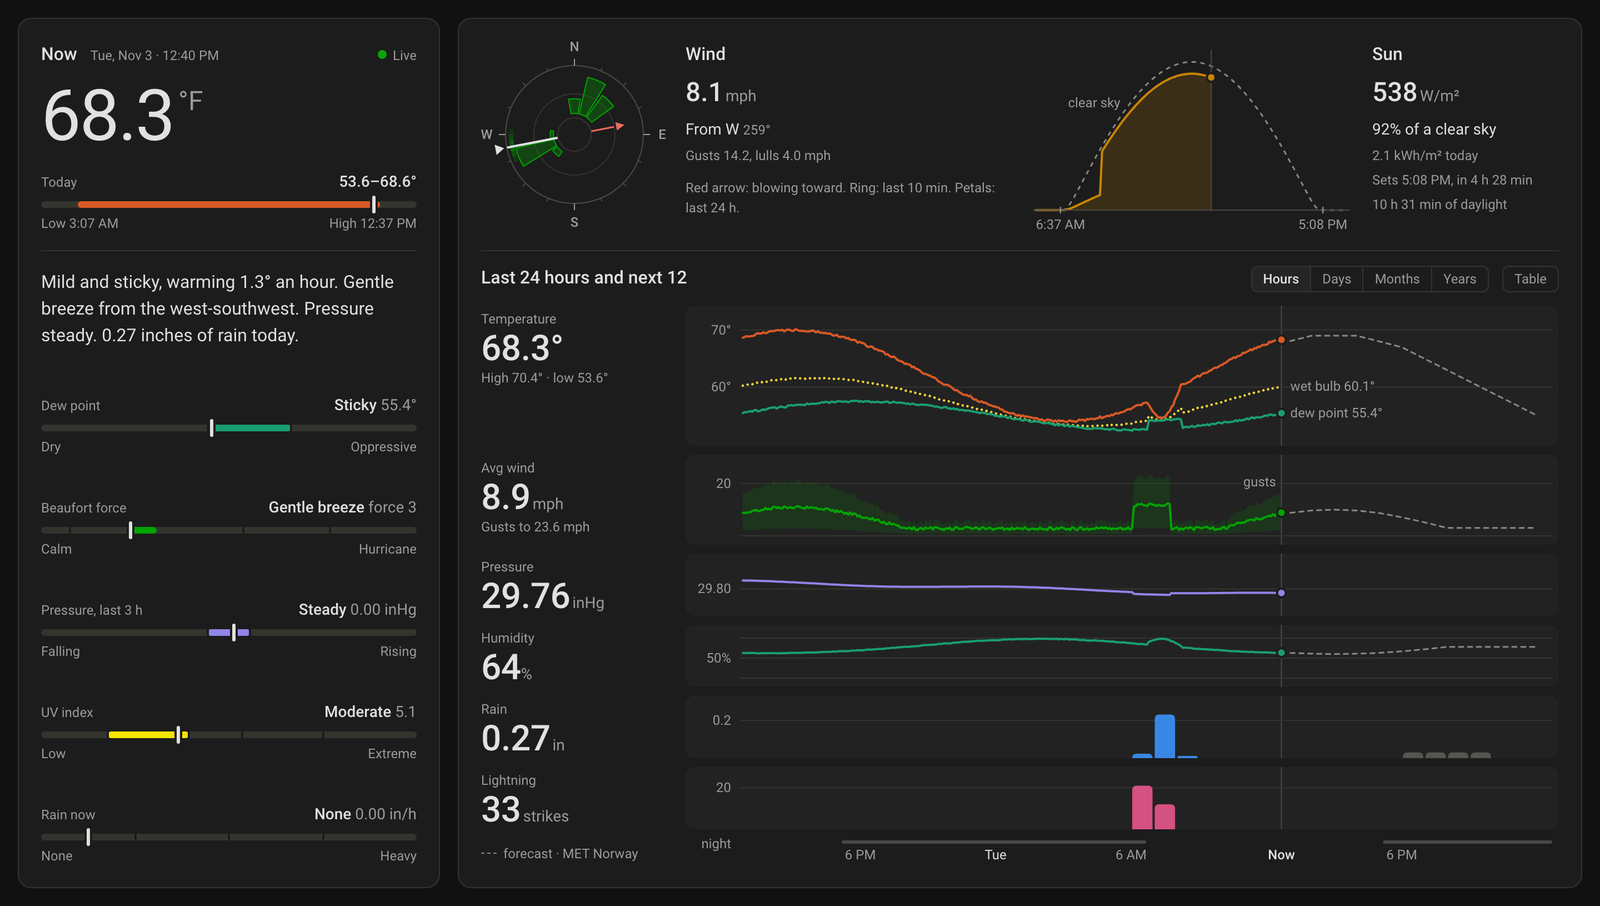
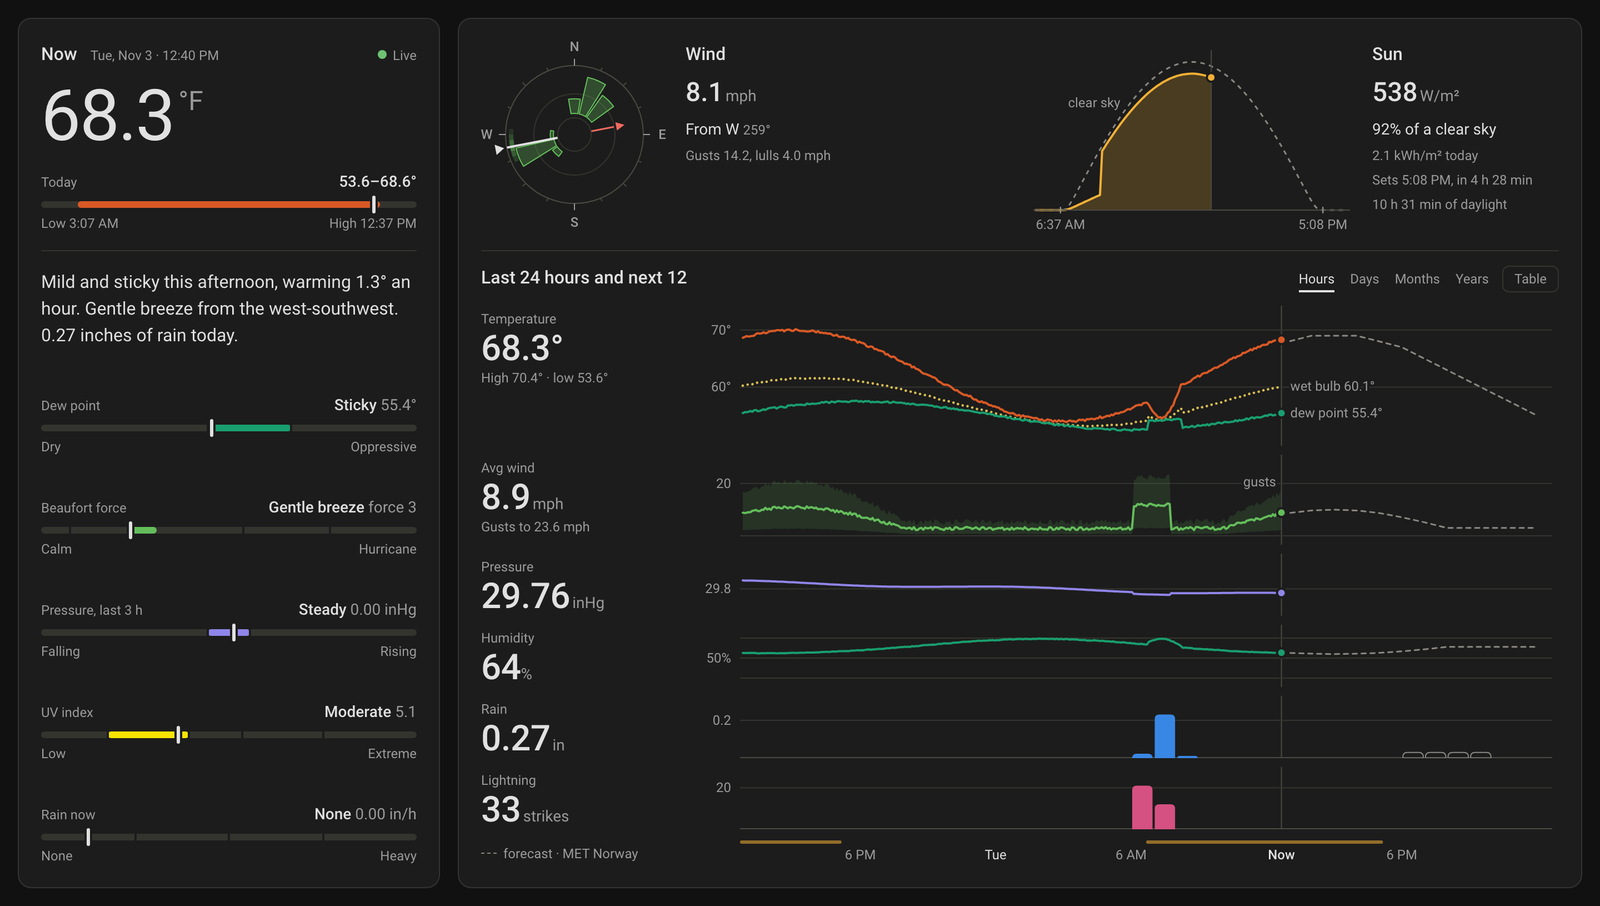
Tempest Station Card 1.4.0

diff --git a/tempest-station-card.js b/tempest-station-card.js
@@ -26,6 +26,10 @@
  * hero figure; 48 on a short screen), 32 (headlines), 24, 16, 14 and 12 px.
  * Figures are tabular.
  *
+ * The charts are drawn straight on the card: gridlines and, under bars, a
+ * floor, and nothing else. A forecast is dashed or outlined where a
+ * measurement is solid. Daylight is a ribbon along the time axis.
+ *
  * Motion: the needle glides between samples; a change of range, or of a
  * figure, crossfades over 220 ms; a new lightning strike lights its chart
  * once; nothing moves the layout. All of it is off under
@@ -42,7 +46,7 @@
 (() => {
   "use strict";
   const TAG = "tempest-station-card";
-  const VERSION = "1.3.1";
+  const VERSION = "1.4.0";
   if (customElements.get(TAG)) return;
 
   /* ---------- units ---------- */
@@ -367,9 +371,9 @@
   display: block;
   --wx-temp: #eb6834; --wx-dew: #1baf7a; --wx-rain: #2a78d6; --wx-sun: #eda100;
   --wx-temp-2: #c44513; --wx-downwind: #d03b3b; --wx-wetbulb: #a68600;
-  --wx-wind: #008300; --wx-pres: #6250d6; --wx-bolt: #e87ba4; --wx-muted: #898781;
-  --wx-grid: #e1e0d9; --wx-axis: #c3c2b7; --wx-wash: rgba(11,11,11,0.035);
-  --wx-good: #0ca30c; --wx-warn: #fab219; --wx-critical: #d03b3b;
+  --wx-wind: #2c8724; --wx-pres: #6250d6; --wx-bolt: #e87ba4; --wx-muted: #898781;
+  --wx-grid: #e1e0d9; --wx-axis: #c3c2b7; --wx-wash: rgba(11,11,11,0.035); --wx-sun-fill: 0.18;
+  --wx-good: #3a9742; --wx-warn: #fab219; --wx-critical: #d03b3b;
   --wx-surface: var(--ha-card-background, var(--card-background-color, #fff));
   --wx-ink: var(--primary-text-color, #0b0b0b);
   --wx-ink2: var(--secondary-text-color, #52514e);
@@ -390,9 +394,9 @@
   -webkit-font-smoothing: antialiased;
 }
 :host(.dark) {
-  --wx-temp: #d95926; --wx-dew: #199e70; --wx-rain: #3987e5; --wx-sun: #c98500;
-  --wx-pres: #9085e9; --wx-bolt: #d55181;
-  --wx-temp-2: #e2825c; --wx-downwind: #f06a5f; --wx-wind: #00a400; --wx-wetbulb: #f2d23b;
+  --wx-temp: #d95926; --wx-dew: #199e70; --wx-rain: #3987e5; --wx-sun: #f2b036; --wx-sun-fill: 0.22;
+  --wx-pres: #9085e9; --wx-bolt: #d55181; --wx-good: #6ec272;
+  --wx-temp-2: #e2825c; --wx-downwind: #f06a5f; --wx-wind: #64bd5b; --wx-wetbulb: #d8bd51;
   --wx-grid: #34342f; --wx-axis: #4a4a43; --wx-wash: rgba(255,255,255,0.045);
 }
 * { box-sizing: border-box; }
@@ -511,6 +515,7 @@ h2 { font-size: var(--wx-fs-title); line-height: 24px; font-weight: var(--wx-w-m
 .read { font-size: var(--wx-fs-read); line-height: 28px; white-space: nowrap; font-weight: var(--wx-w-medium); font-variant-numeric: tabular-nums; }
 .read .unit { font-weight: var(--wx-w-regular); }
 .cap { margin-top: 6px; line-height: 18px; }
+.cap:empty { display: none; }
 .sunfig svg { display: block; overflow: visible; }
 .mg-head { margin-bottom: 12px; }
 .head-r { display: flex; flex-wrap: wrap; align-items: center; gap: 8px 12px; margin-left: auto; }
@@ -518,15 +523,18 @@ h2 { font-size: var(--wx-fs-title); line-height: 24px; font-weight: var(--wx-w-m
 .narrow [data-csv] { display: none; }
 .mg-body { position: relative; }
 .wide .mg-body { flex: 1 1 auto; min-height: 0; }
-.seg { display: inline-flex; border: 1px solid var(--wx-grid); border-radius: 6px; overflow: hidden; }
+/* The ranges are tabs, words with a rule under the one in force; Table and CSV are actions and keep their buttons.
+   Every tab keeps one weight, so a change of range never shifts its neighbours. */
+.seg { display: inline-flex; gap: 14px; }
 .seg button, .tbtn { font: inherit; font-size: var(--wx-fs-small); line-height: 16px; color: var(--wx-ink2); background: none; border: 0; padding: 3px 10px; cursor: pointer; }
 .tbtn { border: 1px solid var(--wx-grid); border-radius: 6px; }
-.seg button + button { border-left: 1px solid var(--wx-grid); }
-.seg button[aria-pressed="true"] { background: var(--wx-wash); color: var(--wx-ink); font-weight: var(--wx-w-medium); }
+.seg button { padding: 4px 0 2px; border-bottom: 2px solid transparent; }
+.seg button[aria-pressed="true"] { color: var(--wx-ink); border-bottom-color: var(--wx-ink); }
 .seg button:hover, .tbtn:hover { color: var(--wx-ink); }
 .seg button:focus-visible, .tbtn:focus-visible { outline: 2px solid var(--primary-color, #2a78d6); outline-offset: 2px; }
 
-/* Meteogram: one time axis for every measure. Each chart sits in its own well, led by a headline tile. */
+/* Meteogram: one time axis for every measure. Each chart is drawn straight on the card, led by a headline tile:
+   its gridlines and its floor are all the frame it has. */
 .mg { display: grid; grid-template-columns: var(--wx-tile, 184px) minmax(0, 1fr); position: relative; outline: none; }
 .mg:focus-visible { outline: 2px solid var(--primary-color, #2a78d6); outline-offset: 4px; border-radius: 4px; }
 /* A finger reads the chart as a mouse does: a drag along it scrubs; a drag up or down still scrolls the page. */
@@ -542,7 +550,7 @@ h2 { font-size: var(--wx-fs-title); line-height: 24px; font-weight: var(--wx-w-m
 .tile .k { display: inline-block; width: 12px; height: 0; border-top: 2px solid; vertical-align: middle; margin: -2px 6px 0 0; }
 .tile .k.dash { border-top-style: dashed; }
 .tile .k.dot { border-top-style: dotted; border-top-width: 2.5px; }
-.mg-p { min-width: 0; position: relative; border-radius: 8px; background: var(--wx-well); overflow: hidden; }
+.mg-p { min-width: 0; position: relative; overflow: hidden; }
 @keyframes wx-arrive { from { opacity: 0; } to { opacity: 1; } }
 .arrive .mg-p svg, .arrive .sunfig svg, .arrive .dial svg, .arrive .tile .tv { animation: wx-arrive 360ms ease-out both; }
 @media (prefers-reduced-motion: reduce) { .arrive .mg-p svg, .arrive .sunfig svg, .arrive .dial svg, .arrive .tile .tv { animation: none; } }
@@ -556,15 +564,15 @@ h2 { font-size: var(--wx-fs-title); line-height: 24px; font-weight: var(--wx-w-m
 .xf::after { content: attr(data-old); position: absolute; left: 0; top: 0; color: var(--wx-ink); white-space: nowrap; pointer-events: none; animation: wx-fade 220ms ease-out both; }
 @keyframes wx-ink { from { color: transparent; } }
 /* A new strike: the lightning strip lights faintly, as a distant flash would, and settles over a second and a half. */
-.mg-p.flash { animation: wx-flash 1500ms ease-out both; }
-@keyframes wx-flash { from { background: color-mix(in srgb, var(--wx-bolt) 22%, var(--wx-well)); } 30% { background: color-mix(in srgb, var(--wx-bolt) 14%, var(--wx-well)); } }
+.mg-p.flash { border-radius: 8px; animation: wx-flash 1500ms ease-out both; }
+@keyframes wx-flash { from { background: color-mix(in srgb, var(--wx-bolt) 22%, var(--wx-surface)); } 30% { background: color-mix(in srgb, var(--wx-bolt) 14%, var(--wx-surface)); } to { background: transparent; } }
 @media (prefers-reduced-motion: reduce) { .mg-ghost { display: none; } .swap > .mg, .swap > .table-wrap, .xf, .mg-p.flash { animation: none; } .xf::after { content: none; } }
 .mg-p svg, .mg-axis svg { display: block; overflow: visible; }
 .mg-axis { grid-column: 2; }
 .mg-key { grid-column: 1; padding: 6px 16px 0 0; white-space: nowrap; overflow: hidden; text-overflow: ellipsis; }
 .mg-key i { display: inline-block; vertical-align: middle; margin: -2px 6px 0 0; }
 .mg-key .kd { width: 14px; border-top: 1.5px dashed var(--wx-muted); }
-.mg-key .kb { width: 8px; height: 8px; border-radius: 2px; background: var(--wx-muted); opacity: .5; }
+.mg-key .kb { width: 9px; height: 9px; border-radius: 2px; border: 1px solid var(--wx-muted); }
 .narrow .mg-key { order: 2; padding: 4px 0 0; }
 .tile.m .tv { font-size: var(--wx-fs-read); line-height: 26px; }
 .tile.s { display: flex; justify-content: space-between; align-items: baseline; gap: 8px; padding-top: 8px; }
@@ -576,7 +584,7 @@ h2 { font-size: var(--wx-fs-title); line-height: 24px; font-weight: var(--wx-w-m
 .narrow .mg-axis { grid-column: 1; }
 .mg-none { position: absolute; top: 0; bottom: 0; display: flex; align-items: center; }
 .tick { font-size: var(--wx-fs-small); fill: var(--wx-ink2); font-variant-numeric: tabular-nums; }
-.tick.halo { paint-order: stroke; stroke: var(--wx-well); stroke-width: 4px; stroke-linejoin: round; }
+.tick.halo { paint-order: stroke; stroke: var(--wx-surface); stroke-width: 4px; stroke-linejoin: round; }
 .tick.day { fill: var(--wx-ink); }
 .tick.now { font-weight: var(--wx-w-medium); }
 .tick.hint { fill: var(--wx-ink2); }
@@ -1378,7 +1386,7 @@ tr.fc td { color: var(--wx-ink2); }
       const sy = (v) => padT + (1 - v / top) * (H - padT - padB);
       const base = sy(0);
       let g = "";
-      if (meas.length > 1) g += `<path d="${areaPath(meas, sx, sy, base, 16 * 60e3)}" fill="var(--wx-sun)" fill-opacity="0.18"/>
+      if (meas.length > 1) g += `<path d="${areaPath(meas, sx, sy, base, 16 * 60e3)}" fill="var(--wx-sun)" style="fill-opacity:var(--wx-sun-fill)"/>
         <path d="${linePath(meas, sx, sy, 16 * 60e3)}" fill="none" stroke="var(--wx-sun)" stroke-width="2" stroke-linejoin="round" stroke-linecap="round"/>`;
       g += `<path d="${linePath(cs, sx, sy, HOUR)}" fill="none" stroke="var(--wx-muted)" stroke-width="1.5" stroke-dasharray="4 4"/>`;
       // The dashed bell names itself on the flank away from now, just outside the curve, where nothing else is drawn.
@@ -1913,7 +1921,7 @@ tr.fc td { color: var(--wx-ink2); }
     _allocate(strips, total, narrow) {
       const base = strips.map((s) => (s.empty ? (narrow ? 32 : 40) : narrow ? Math.max(56, Math.round(s.h * 0.82)) : s.h));
       if (!total) return base;
-      // Nothing to plot anywhere: the empty wells share the height evenly.
+      // Nothing to plot anywhere: the empty strips share the height evenly.
       if (strips.every((s) => s.empty)) { const each = Math.floor(total / strips.length); return strips.map((_, i) => each + (i === 0 ? total - each * strips.length : 0)); }
       const fixed = strips.reduce((a, s, i) => a + (s.empty ? base[i] : 0), 0);
       const wsum = strips.reduce((a, s) => a + (s.empty ? 0 : s.w), 0) || 1;
@@ -1936,7 +1944,7 @@ tr.fc td { color: var(--wx-ink2); }
           if (!active.length) break;
         }
       }
-      // Rounding settles on the first full strip, so the last well lands exactly on the card's bottom line.
+      // Rounding settles on the first full strip, so the last strip lands exactly on the card's bottom line.
       const first = strips.findIndex((s) => !s.empty);
       const diff = total - out.reduce((a, b) => a + b, 0);
       if (first >= 0) out[first] += diff;
@@ -1999,11 +2007,14 @@ tr.fc td { color: var(--wx-ink2); }
           const nt = niceTicks(0, vmax, 2);
           const tick = nt.ticks.filter((v) => v > 0 && v <= top).pop() ?? nt.ticks[1] ?? vmax;
           const sy = (v) => padT + ph - (v / top) * ph;
+          // Bars stand on a floor, the zero line, drawn a hair inside the strip so it is not clipped.
+          g += `<line x1="${padL}" x2="${padL + pw}" y1="${(padT + ph - 0.5).toFixed(1)}" y2="${(padT + ph - 0.5).toFixed(1)}" stroke="var(--wx-axis)"/>`;
           if (H >= 52) g += grid(sy(tick)) + label(f.num(tick, nt.step < 0.1 ? 2 : nt.step < 1 ? 1 : 0), sy(tick));
           s.bars.forEach((b, i) => {
             const slot = sx(b.t1) - sx(b.t0), bw = Math.max(2, Math.min(24, slot - 2));
             const x = sx(b.t0) + (slot - bw) / 2, y = sy(b.v);
-            g += `<path data-bar="${i}" d="${barPath(x, y, bw, padT + ph - y)}" fill="${b.fc ? "var(--wx-muted)" : s.color}"${b.fc ? ' fill-opacity="0.5"' : ""}/>`;
+            // One rule for every forecast mark: outlined, where a measurement is filled.
+            g += `<path data-bar="${i}" d="${barPath(x, y, bw, padT + ph - y)}" ${b.fc ? 'fill="none" stroke="var(--wx-muted)"' : `fill="${s.color}"`}/>`;
           });
           geom.sy = sy;
         } else {
@@ -2033,7 +2044,7 @@ tr.fc td { color: var(--wx-ink2); }
               const slot = sx(r.t1) - sx(r.t0), bw = Math.max(4, Math.min(16, slot * 0.4));
               const x = sx(r.t0) + (slot - bw) / 2, y = sy(r.hi), h = Math.max(8, sy(r.lo) - y);
               // A floating range has a data end at both ends: 4 px rounding at each, like every other bar.
-              g += `<rect data-bar="${r.t0}" x="${x.toFixed(1)}" y="${y.toFixed(1)}" width="${bw.toFixed(1)}" height="${h.toFixed(1)}" rx="4" fill="${r.fc ? "var(--wx-muted)" : s.color}"${r.fc ? ' fill-opacity="0.5"' : ""}/>`;
+              g += `<rect data-bar="${r.t0}" x="${x.toFixed(1)}" y="${y.toFixed(1)}" width="${bw.toFixed(1)}" height="${h.toFixed(1)}" rx="4" ${r.fc ? 'fill="none" stroke="var(--wx-muted)"' : `fill="${s.color}"`}/>`;
             }
           } else {
             const gapMs = spec.range === "hours" ? 16 * 60e3 : spec.range === "years" ? 70 * DAY : 1.5 * DAY;
@@ -2115,9 +2126,14 @@ tr.fc td { color: var(--wx-ink2); }
     _axis(spec, sx, padL, pw, markX) {
       const f = this._m.f, out = [];
       const put = (x, text, day, now) => out.push(`<text x="${x.toFixed(1)}" y="19" text-anchor="middle" class="tick${day ? " day" : ""}${now ? " now" : ""}">${esc(text)}</text>`);
-      // Night, once: a ribbon along the time axis instead of a shade in every well.
-      for (const [a, b] of spec.night ?? []) out.push(`<rect x="${sx(a).toFixed(1)}" y="2" width="${(sx(b) - sx(a)).toFixed(1)}" height="3" rx="1.5" fill="var(--wx-ink2)" fill-opacity="0.35"/>`);
-      if (spec.night?.length) out.push(`<text x="${(padL - 8).toFixed(1)}" y="9" text-anchor="end" class="tick">night</text>`);
+      // Daylight, once: a ribbon in the sun's colour along the time axis, and night is where it stops.
+      if (spec.night) {
+        const day = [];
+        let t = spec.x0;
+        for (const [a, b] of spec.night) { if (a > t) day.push([t, a]); t = Math.max(t, b); }
+        if (t < spec.x1) day.push([t, spec.x1]);
+        for (const [a, b] of day) out.push(`<rect x="${sx(a).toFixed(1)}" y="2" width="${(sx(b) - sx(a)).toFixed(1)}" height="3" rx="1.5" fill="var(--wx-sun)" fill-opacity="0.55"/>`);
+      }
       const clear = (x) => x >= padL + 14 && x <= padL + pw - 14 && (markX === null || Math.abs(x - markX) >= 34);
       if (spec.range === "hours") {
         const every = pw / ((spec.x1 - spec.x0) / HOUR) < 14 ? 12 : 6;
@@ -2360,9 +2376,8 @@ tr.fc td { color: var(--wx-ink2); }
       set("ws", f.num(W.v, 1), true);
       set("wfrom", W.card); set("wdeg", W.dir === null ? "" : `${f.num(W.dir)}°`);
       set("gustlull", W.gust === null ? "" : `Gusts ${f.num(W.gust, 1)}, lulls ${f.num(W.lull, 1)}${NB}${W.unit}`);
-      set("rosecap", W.roseSpan > 0
-        ? `Red arrow: blowing toward. Ring: last 10${NB}min. Petals: ${W.roseSpan > 23.5 * HOUR ? `last 24${NB}h` : `since ${f.time(m.now - W.roseSpan)}`}.`
-        : "Red arrow: blowing toward. Ring: last 10 min. Petals fill in as the wind is recorded.");
+      // The dial explains itself (its title says what each mark is); the one thing worth a line is a rose still filling in.
+      set("rosecap", W.roseSpan > 23.5 * HOUR ? "" : "Petals fill in over the first day.");
       const Sn = m.sun;
       set("daylen", Sn.rise && Sn.set ? `${f.dur(Sn.set - Sn.rise)} of daylight` : "");
       set("irr", f.num(Sn.irr), true);

diff --git a/CHANGELOG.md b/CHANGELOG.md
@@ -1,5 +1,14 @@
 # Changelog
 
+## 1.4.0
+
+- **The chart is drawn on the card.** The grey wells behind the strips are gone: each strip has its gridlines and, under bars, a floor, and nothing else. A new strike lights the strip itself.
+- **One rule for forecast marks.** A forecast is outlined where a measurement is filled: the rain and sunshine bars, the daily temperature ranges, and the key beside the credit.
+- **The ranges are tabs.** Hours, Days, Months and Years are words with a rule under the one in force; Table and CSV keep their buttons.
+- **Daylight on the axis.** A ribbon in the sun's colour marks daylight along the time axis, and night is where it stops.
+- **Colour.** The wind green sits with the other colours instead of darker than all of them, and the Live dot and the dial's petals follow. In dark mode the wind line, the wet-bulb dots and the sun's amber are chosen for the dark surface rather than brightened.
+- **The dial speaks for itself.** The caption under the wind readings is gone; the dial's tooltip still names each mark, and a rose still filling in says so for its first day.
+
 ## 1.3.1
 
 - **A strike lights the strip.** When the station reports a new lightning strike, the lightning chart lights faintly, as a distant flash would, and settles over a second and a half. Once per strike, in every range, never on first paint, and off under reduced motion.

diff --git a/README.md b/README.md
@@ -69,7 +69,7 @@ The card uses whatever units your entities report: °C or °F, km/h, m/s or mph,
 ## Notes
 
 - **Scales.** Beaufort force follows the WMO, pressure tendency the Met Office, rain intensity the AMS Glossary, dew point comfort the US National Weather Service, and UV index the WHO. The clear-sky curve uses the Haurwitz model.
-- **Honest charts.** Wind, rain and lightning start at zero, and humidity spans 0–100%. Pressure is the station's own reading (not reduced to sea level) and always spans at least 10 hPa, like a barograph, so a steady day looks steady.
+- **Honest charts.** Wind, rain and lightning start at zero, and humidity spans 0–100%. Pressure is the station's own reading (not reduced to sea level) and always spans at least 10 hPa, like a barograph, so a steady day looks steady. A forecast is drawn dashed or outlined, where a measurement is solid.
 - **Privacy.** Everything runs in your browser against your own Home Assistant. The card makes no outside requests.
 - **Forecast credit.** When the forecast comes from Met.no, the card credits MET Norway beside the chart, as their data licence asks.
 - **Motion.** The needle glides, a change of range crossfades, a figure that changes crossfades in place, and a new lightning strike lights its chart once; nothing ever moves the layout. All of it is off when the viewer's system asks for reduced motion.
